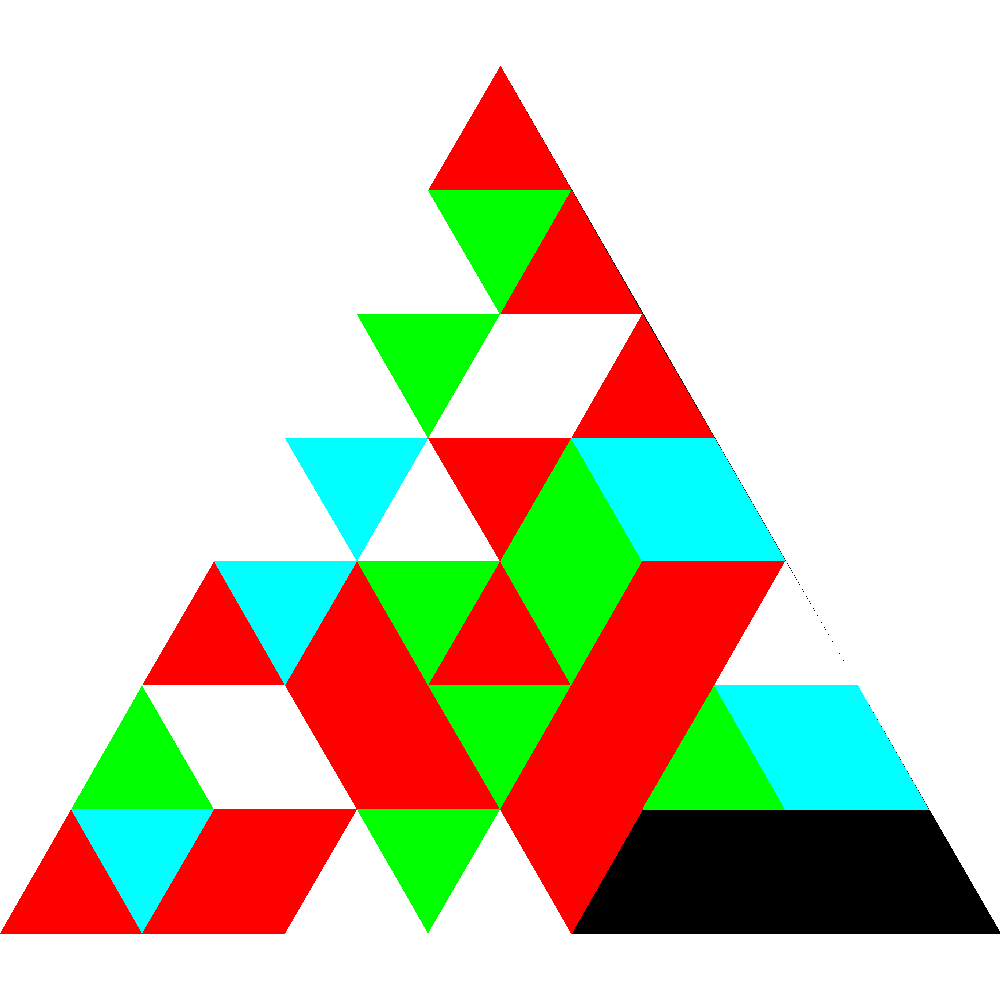
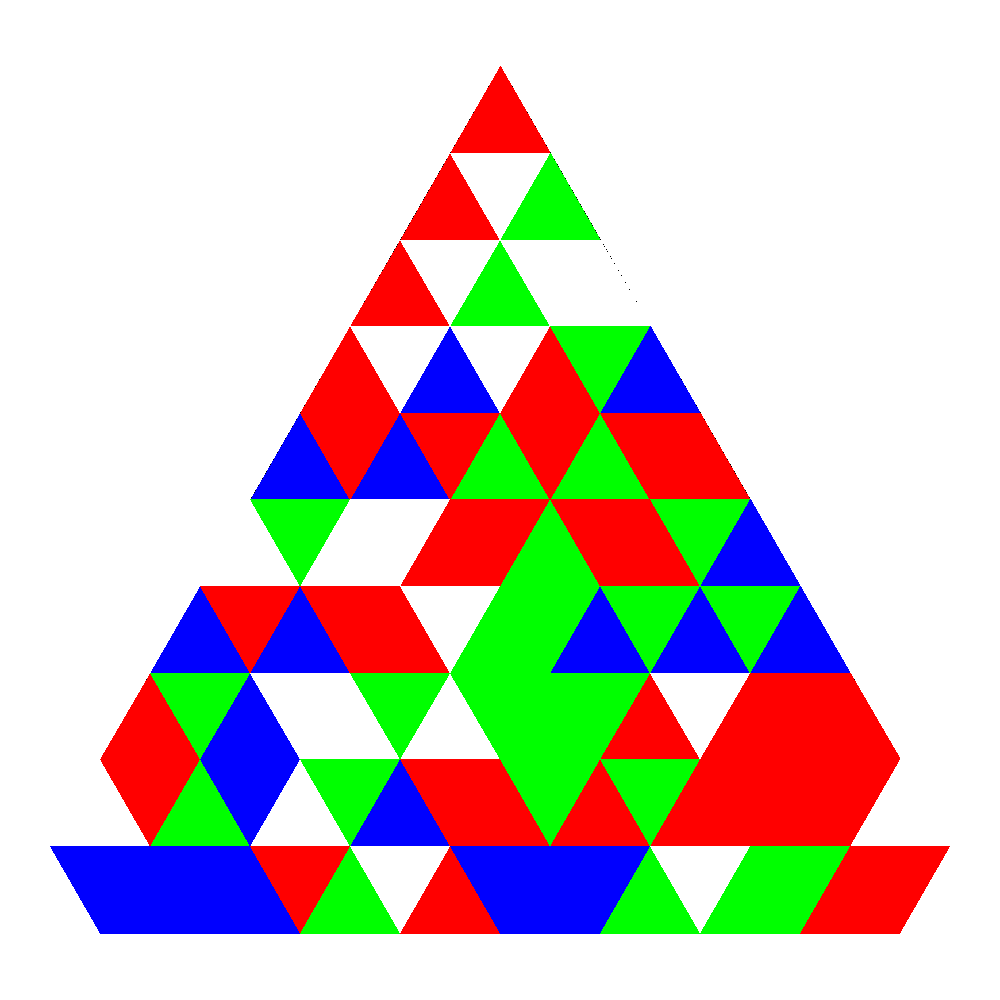
QR generation basics done

diff --git a/drawer.py b/drawer.py
@@ -1,11 +1,13 @@
 from PIL import Image, ImageDraw
+import random
+import encoder
 
 
 color_map = {
     0: (255, 255, 255, 255),
     1: (255, 0, 0, 255),
     2: (0, 255, 0, 255),
-    3: (0, 255, 255, 255)
+    3: (0, 0, 255, 255)
 }
 
 
@@ -32,11 +34,28 @@ def get_position(index):
     position = index + cells_last_row - 2
     orientation = 'U' if position % 2 != 0 else 'D'
     position -= ((cells_last_row - 2) // 2 + 1)
-    print(row, position, orientation)
     return row, position, orientation
 
 
+def insert_to_string(line, symbol, index):
+    return line[:index] + symbol + line[index:]
+
+
+def generate_random_data(length):
+    generated_data = ''
+    for _ in range(length):
+        byte = random.randint(0, 3)
+        generated_data += str(byte)
+    return generated_data
+
+
 def write_data(img, data):
+    data = data + '3333'
+    last_row, _, _ = get_position(len(data) + 3)
+    data = insert_to_string(data, '1', 0)
+    data = insert_to_string(data, '0', (last_row - 1) ** 2)
+    data = data + generate_random_data(last_row ** 2 - len(data) - 1)
+    data += '0'
     cells = len(data)
     cells_per_side = int(cells ** 0.5)
     if cells ** 0.5 != cells_per_side:
@@ -68,10 +87,10 @@ def write_data(img, data):
 def build_code(data, size=500):
     background = get_body(size)
     img = write_data(background, data)
-
     img.show()
     img.save('Code.png')
 
 
 if __name__ == '__main__':
-    build_code('10210200103012331312121102001121123313110201', size=1000)
+    data_to_code = encoder.code('I Love You')
+    build_code(data_to_code, size=1000)

diff --git a/encoder.py b/encoder.py
@@ -53,7 +53,7 @@ def decode(quart_coded_data):
 
 
 if __name__ == '__main__':
-    encoded = code('42')
+    encoded = code('I Love You')
     print(encoded)
     decoded = decode(encoded)
     print(decoded)
